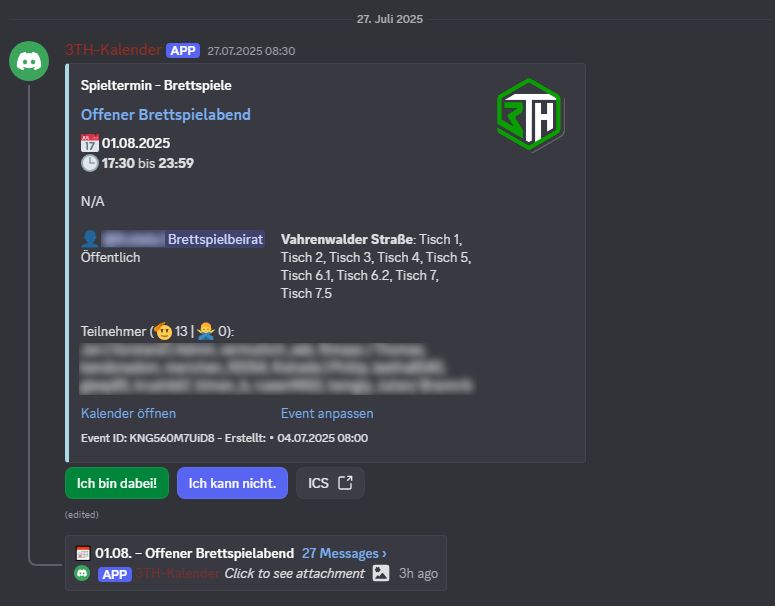
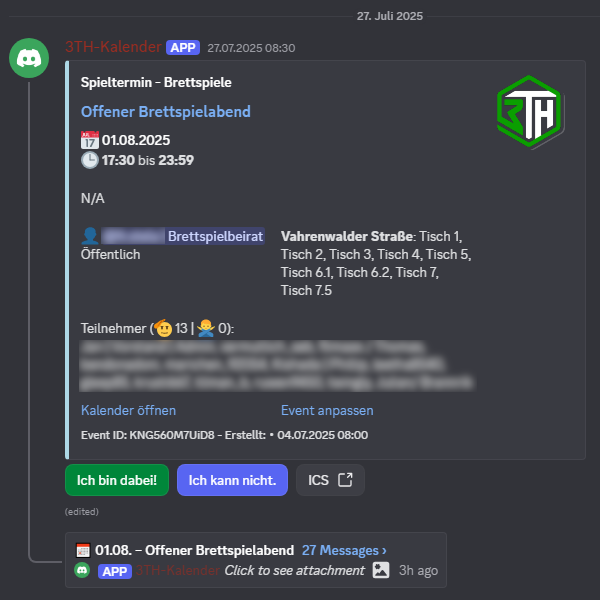
Changed images to better fit the readme

diff --git a/README.md b/README.md
@@ -55,15 +55,19 @@ Demo: [Kalender des TableTopTreffs Hannover e. V.](https://3th-test.tabletoptref
 ## Beispielbilder
 
 ### Hauptansicht in der App
-![alt text](readme_assets/hauptansicht.png)
+<img src="readme_assets/hauptansicht.png" width="600"/>
+
 ### Ansicht einer Reservierung in der App
-![alt text](readme_assets/reservation_popup.png)
+<img src="readme_assets/reservation_popup.png" width="600"/>
+
 ### Buchungs-Formular in der App
-![alt text](readme_assets/form.png)
+<img src="readme_assets/form.png" width="600"/>
+
 ### Discord Event-Post mit Zusagen, Absagen und Thread
-![alt text](readme_assets/discord_event_post.png)
+<img src="readme_assets/discord_event_post.png" width="600"/>
+
 ### Mobile Ansicht der App
-![alt text](readme_assets/mobile_ansicht.png)
+<img src="readme_assets/mobile_ansicht.png" width="400"/>
 
 # Selbst aufsetzen
 
